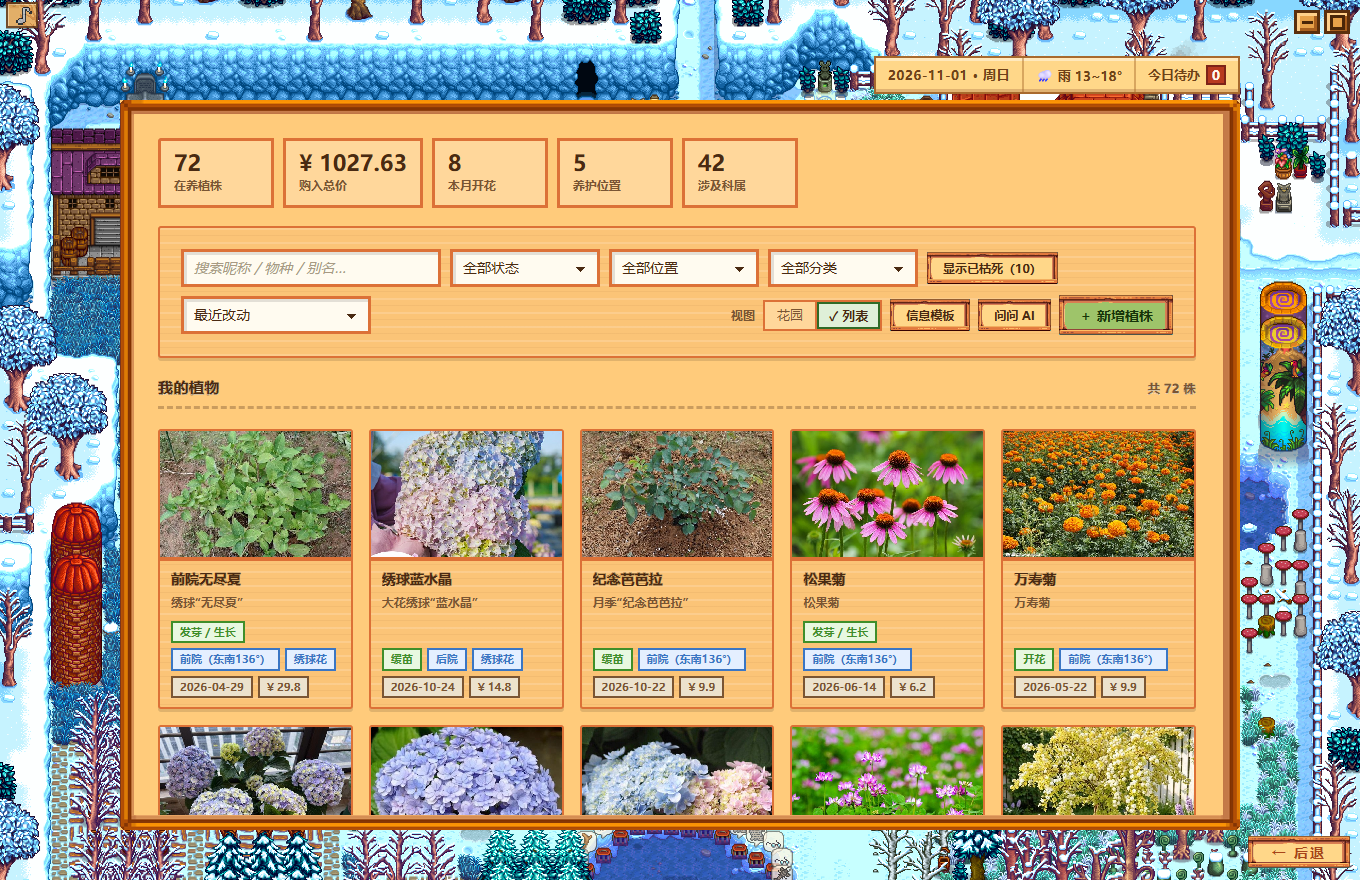
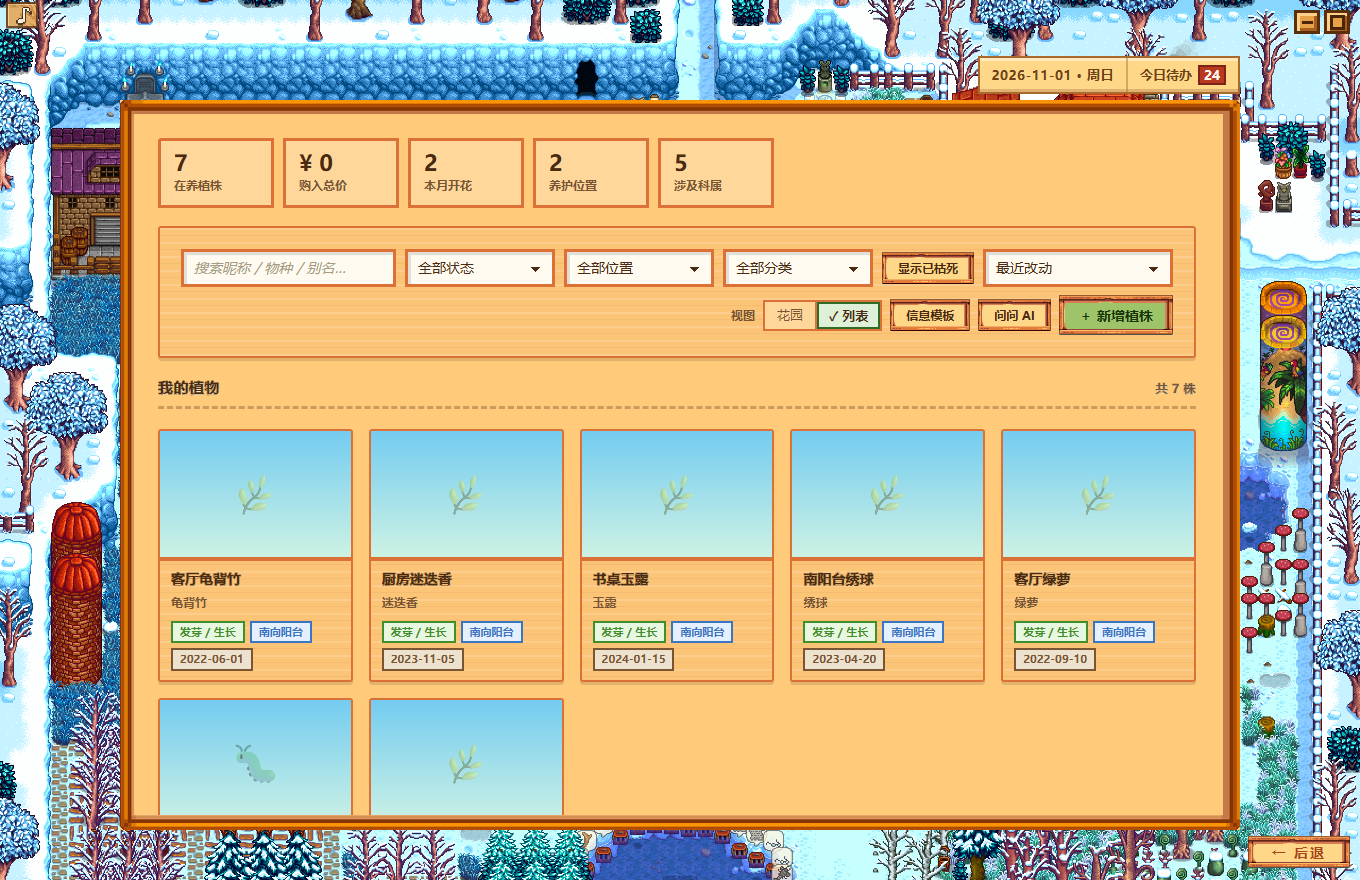
docs(readme): 花园与今日改用演示数据截图
- 这两张会露出现实植株名 / 照片 / 城市，换成 seed-demo 的演示库
- 演示库用 --user-data-dir 跑（--data-dir 会让主题背景不显示，原因未查清）
- README 注明：皮肤是作者私有素材，花园与今日为演示数据

diff --git a/README.md b/README.md
@@ -16,9 +16,9 @@
 
 > 截图由应用自身的 `--screenshot` 开关生成。
 > **皮肤 / 背景素材是作者本机的私有素材，不随仓库分发**（`textures/` 在 `.gitignore` 里），
-> 所以直接 clone 下来跑会是默认外观；数据也是作者自己的植株，不是演示库。
-> 想造一份演示数据看界面：`node scripts/seed-demo.mjs .cache/demo`，
-> 再 `electron . --data-dir=.cache/demo`。
+> 所以直接 clone 下来跑会是默认外观。
+> 「我的花园」与「今日」两张用的是演示数据（`node scripts/seed-demo.mjs .cache/demo`，
+> 跑起来加 `--user-data-dir=.cache/demo`），其余是作者本机界面，不含私人植株信息。
 
 > 名称 `Sproutbook` 是**暂定代号**，与任何商业游戏无关。仓库内不含任何第三方游戏素材。
 
